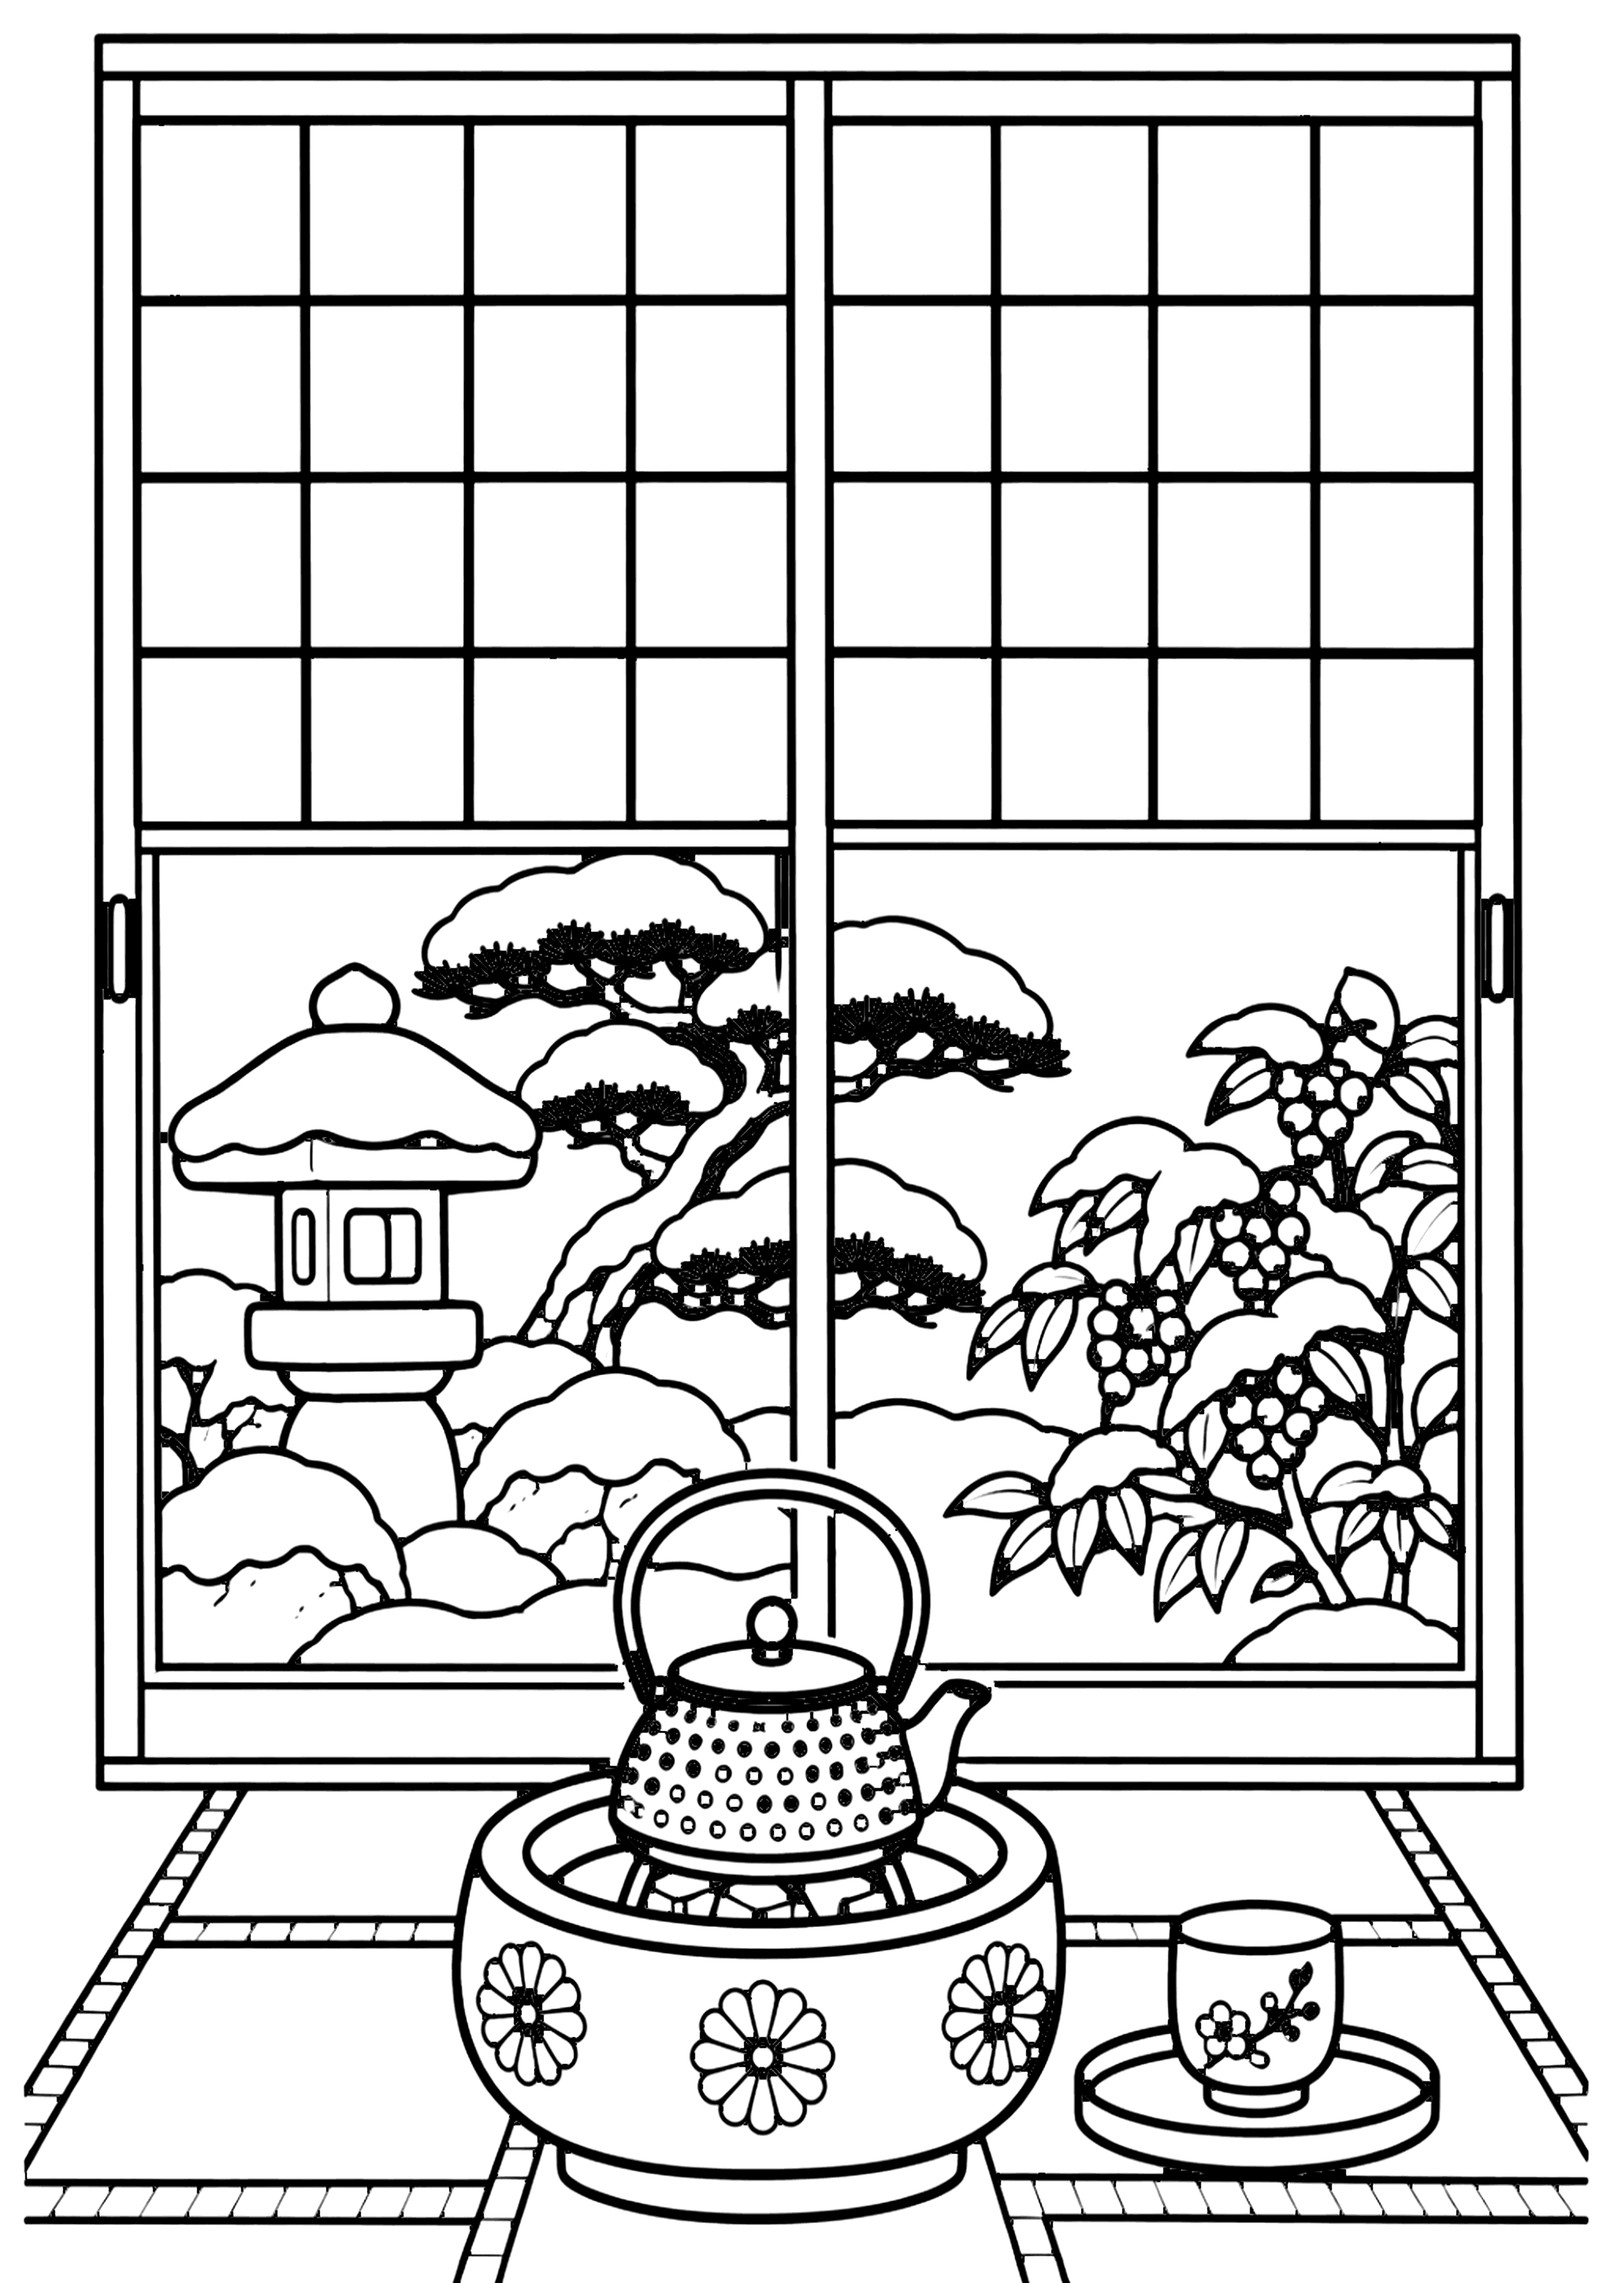
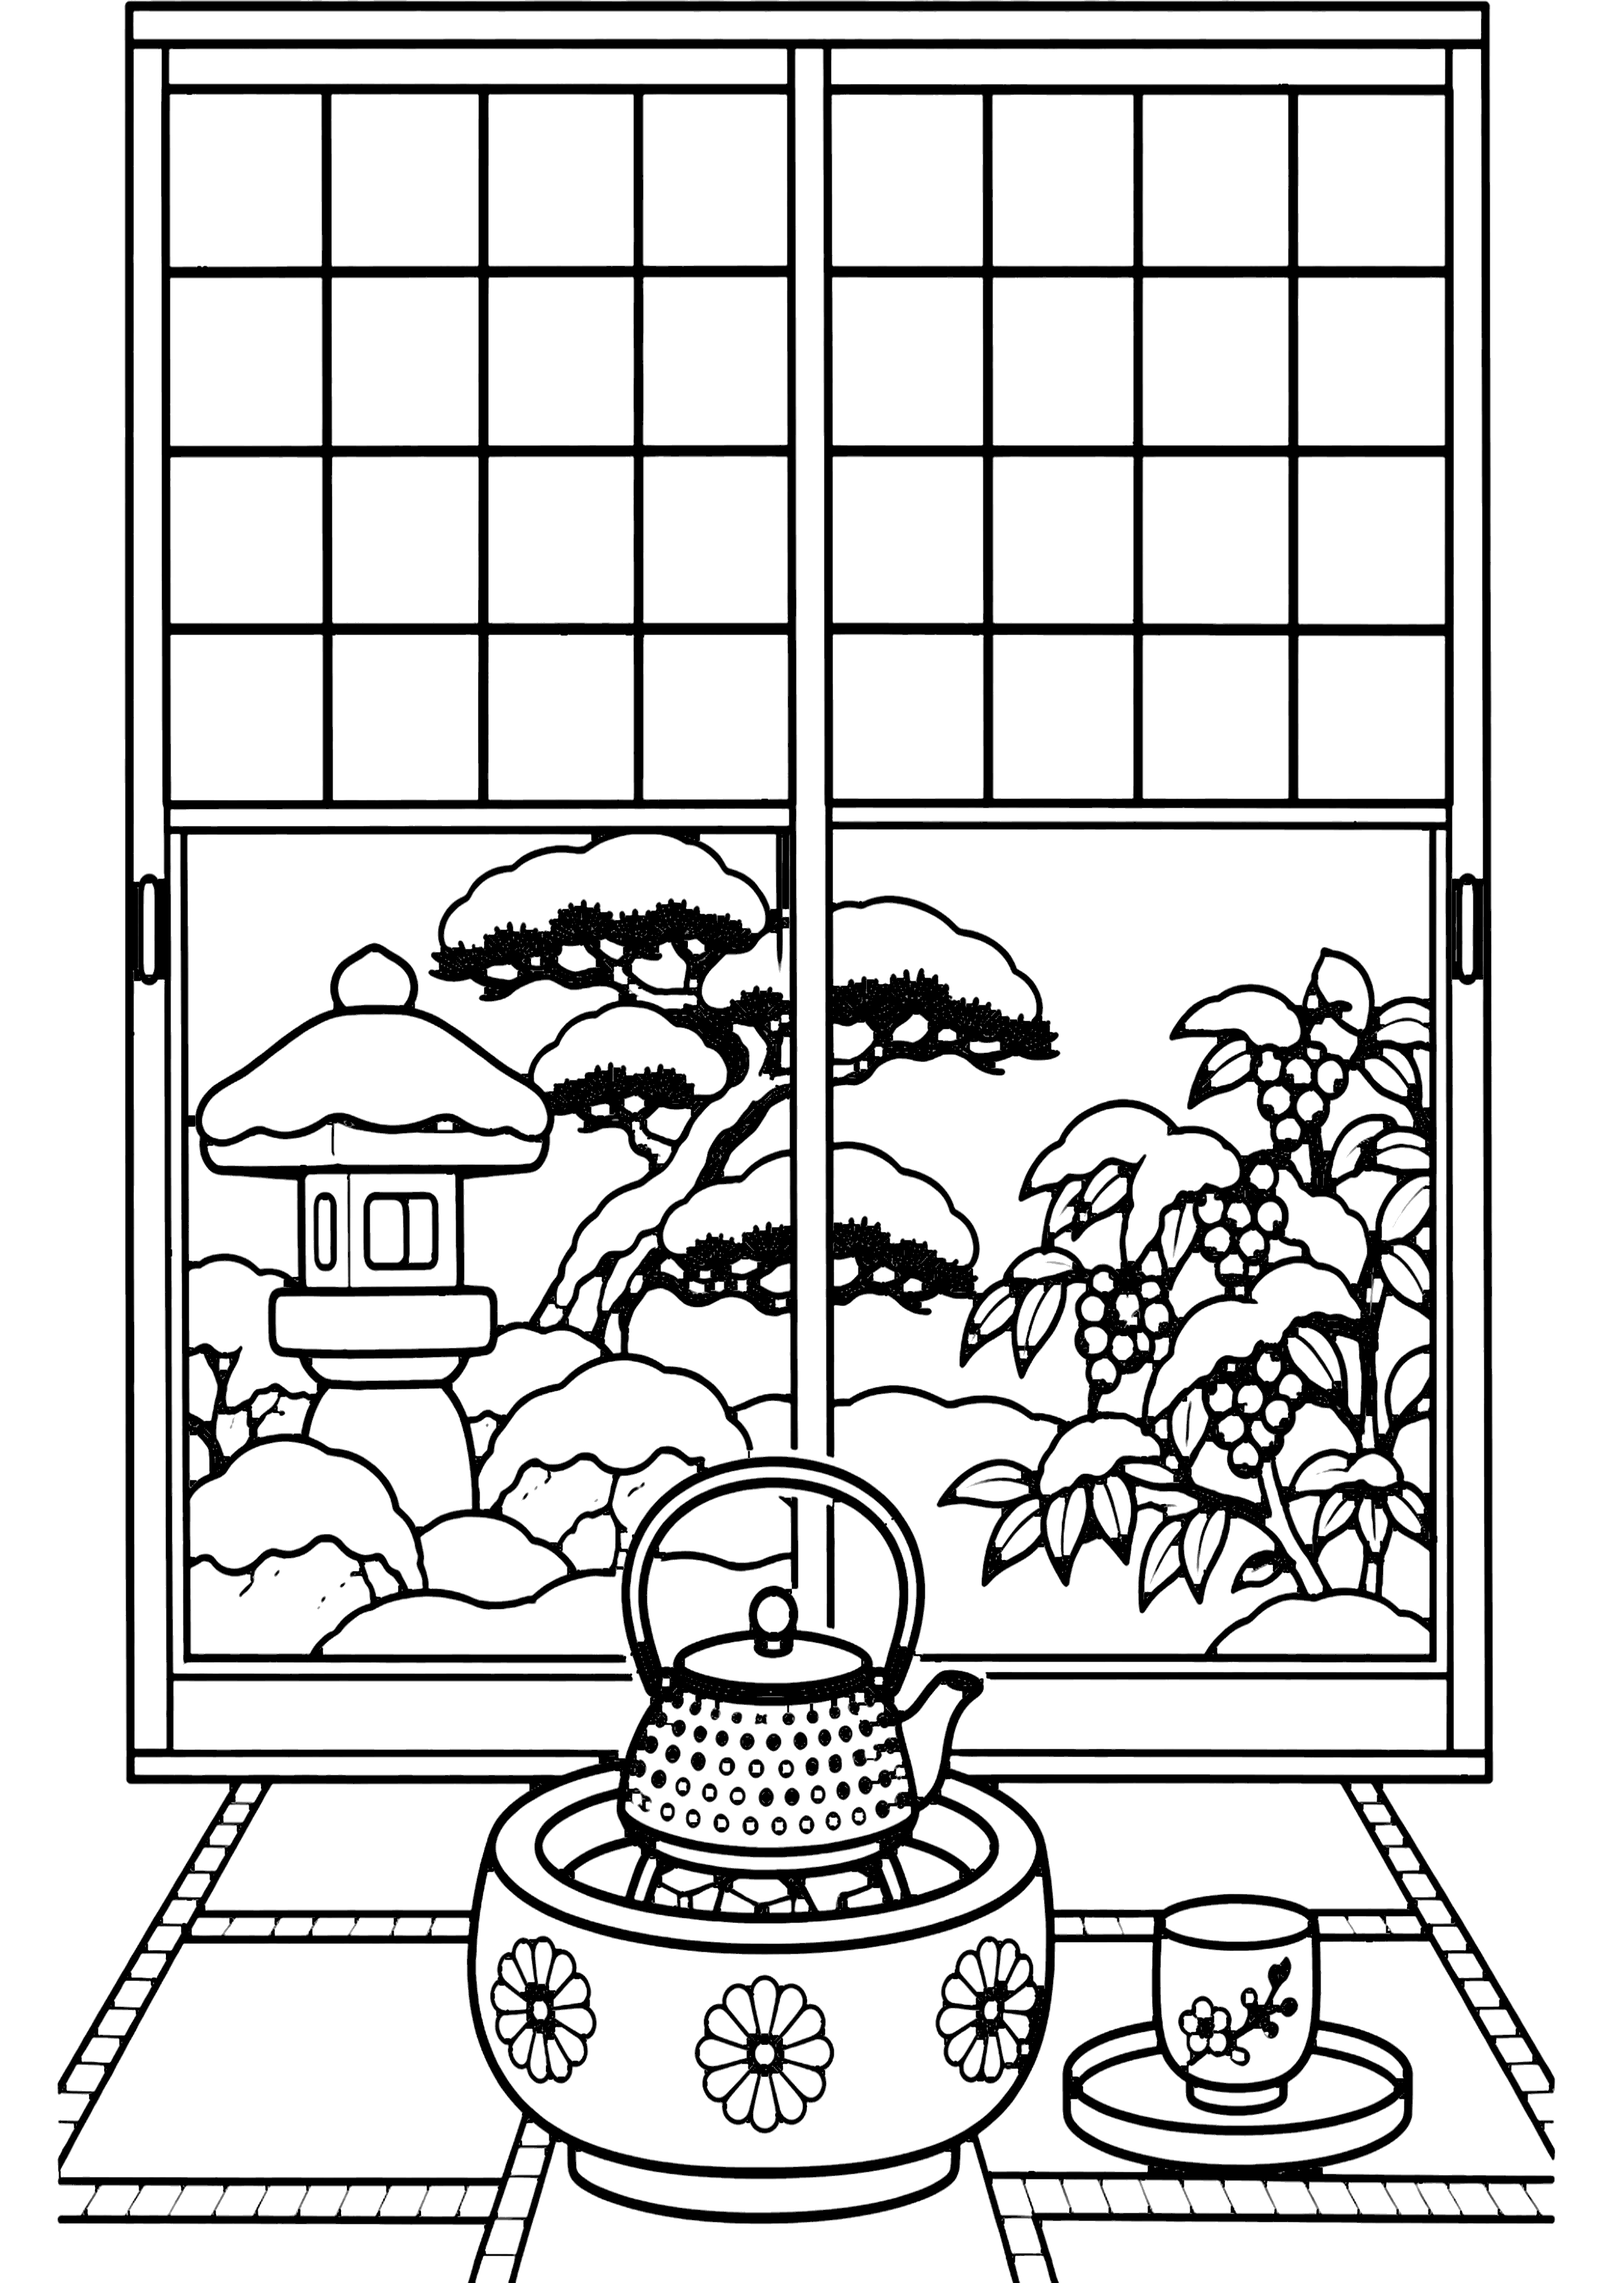
似た塗り絵は名前が近いものを優先／雪見障子の引き伸ばしを戻して左右に余白
Claude-Session: https://claude.ai/code/session_01EPRbSUdhE6u5mhTnwpBaSq

Changed region(s): [[0.0, 0.0, 0.9935, 1.0]]

diff --git a/rk.js b/rk.js
@@ -270,9 +270,22 @@ ${PT && (k === "塗り絵" || W) ? `${btn2 ? `<div class="acts one">${btn2}</div
   /* ---------- modal ---------- */
   let mdN = null, mdTab = "l", zoom = 100, mdPg = -1;
   function related(n) {
-    const k = kindOf(n), pool = LIST.filter(x => x.file !== n.file && kindOf(x) === k && x.title !== n.title);
-    const head = t => String(t).split(/[ 　(（]/)[0];
-    const sc = x => (head(x.title) === head(n.title) ? 8 : 0) + (x.genre && x.genre === n.genre ? 4 : 0) + (x.season === n.season ? 2 : 0) + (x.diff === n.diff ? 1 : 0) + Math.random();
+    const k = kindOf(n), pool = LIST.filter(x => x.file !== n.file && kindOf(x) === k);
+    // 名前が似ているものを最優先（同じ名前・名前の一部が同じ → ジャンル → 季節 → 難しさ）
+    const nm = t => String(t).replace(/[（(][^）)]*[）)]/g, "").replace(/その[0-9０-９一二三四五六七八九十]+|[0-9０-９]+$/g, "").replace(/[ 　・、。！？!?〜~ーのと]/g, "");
+    const bg = t => { const a = new Set(); for (let i = 0; i < t.length - 1; i++) a.add(t.slice(i, i + 2)); return a; };
+    const KJ = /[\u4e00-\u9fff]/, SK = "春夏秋冬";
+    const nn = nm(n.title), nb = bg(nn);
+    const nameSc = x => {
+      const t = nm(x.title); if (!t || !nn) return 0;
+      if (t === nn) return 40;
+      if (t.length >= 2 && nn.length >= 2 && (t.includes(nn) || nn.includes(t))) return 30;
+      let c = 0; bg(t).forEach(b => { if (nb.has(b)) c++; });
+      if (c) return 16 + 3 * c;
+      let k = 0; new Set(t).forEach(ch => { if (KJ.test(ch) && !SK.includes(ch) && nn.includes(ch)) k++; });
+      return Math.min(k, 2) * 3;
+    };
+    const sc = x => nameSc(x) + (x.genre && x.genre === n.genre ? 4 : 0) + (x.season === n.season ? 2 : 0) + (x.diff === n.diff ? 1 : 0) + Math.random();
     return pool.map(x => [sc(x), x]).sort((a, b) => b[0] - a[0]).slice(0, 6).map(a => a[1]);
   }
   let mdSrc = "list", mdCtx = null;

diff --git a/data.js b/data.js
@@ -1618,5 +1618,5 @@ window.NURIE_LIST = [
   { season: "冬", genre: "人物", title: "おばあちゃんとクッキー作り", diff: "中級", file: "cookie_bake_chu.png", sample: "cookie_bake_chu_sample.jpg", added: "2026-11", date: "2026-11-22", desc: "おばあちゃんと孫で、星やツリーの形のクッキーに飾りつけ。", req: true, v: "1795327256494" },
   { season: "冬", genre: "風景", title: "クリスマスイブの居間", diff: "上級", file: "xmas_ibu_ima_jo.png", sample: "xmas_ibu_ima_jo_sample.jpg", added: "2026-11", date: "2026-11-22", desc: "暖炉に靴下、大きなツリーとプレゼント。猫が眠るクリスマスイブの居間です。", req: true, v: "1795327256495" },
   { season: "冬", genre: "風物詩", title: "湯呑みを包む手", diff: "初級", file: "yunomi_te_sho.png", sample: "yunomi_te_sho_sample.jpg", added: "2026-11", date: "2026-11-22", desc: "温かい湯呑みを両手でそっと包んで。小皿にはみかんが二つ。", v: "1795332291971" },
-  { season: "冬", genre: "風物詩", title: "雪見障子", diff: "中級", file: "yukimi_shoji_chu.png", sample: "yukimi_shoji_chu_sample.jpg", added: "2026-11", date: "2026-11-22", desc: "雪見障子のガラス越しに見る雪の庭。手前には火鉢と鉄瓶、湯呑みが置かれています。", v: "1795332291972" },
+  { season: "冬", genre: "風物詩", title: "雪見障子", diff: "中級", file: "yukimi_shoji_chu.png", sample: "yukimi_shoji_chu_sample.jpg", added: "2026-11", date: "2026-11-22", desc: "雪見障子のガラス越しに見る雪の庭。手前には火鉢と鉄瓶、湯呑みが置かれています。", v: "1795343645819" },
 ];

diff --git a/terms.html b/terms.html
@@ -110,7 +110,7 @@
 </div></main>
 <div id="ft"></div>
 <script src="/data.js"></script>
-<script src="/rk.js?v=1795400000"></script>
+<script src="/rk.js?v=1795343645"></script>
 <script>
 document.getElementById("hd").innerHTML=RK.header("doc");
 document.getElementById("ft").innerHTML=RK.footer("doc");

diff --git a/privacy.html b/privacy.html
@@ -98,7 +98,7 @@
 </div></main>
 <div id="ft"></div>
 <script src="/data.js"></script>
-<script src="/rk.js?v=1795400000"></script>
+<script src="/rk.js?v=1795343645"></script>
 <script>
 document.getElementById("hd").innerHTML=RK.header("doc");
 document.getElementById("ft").innerHTML=RK.footer("doc");

diff --git a/top-design.html b/top-design.html
@@ -372,7 +372,7 @@ body{font-family:var(--maru);font-weight:500}
 </main>
 <div id="ft"></div>
 <script src="/data.js"></script>
-<script src="/rk.js?v=1795400000"></script>
+<script src="/rk.js?v=1795343645"></script>
 <script>
 (function(){
   const {LIST,kindOf,thumb,full,esc,seasonNow,metaOf}=RK;

diff --git a/gallery.html b/gallery.html
@@ -64,7 +64,7 @@
 <main class="wrap" id="main"></main>
 <div id="ft"></div>
 <script src="/data.js"></script>
-<script src="/rk.js?v=1795400000"></script>
+<script src="/rk.js?v=1795343645"></script>
 <script src="/hame.js?v=8"></script>
 <script>
 (function(){

diff --git a/index.html b/index.html
@@ -319,7 +319,7 @@
 </main>
 <div id="ft"></div>
 <script src="/data.js"></script>
-<script src="/rk.js?v=1795400000"></script>
+<script src="/rk.js?v=1795343645"></script>
 <script src="/frame.js?v=19"></script>
 <script src="/hame.js?v=8"></script>
 <script>

diff --git a/keirou-nurie.html b/keirou-nurie.html
@@ -75,7 +75,7 @@
 </main>
 <div id="ft"></div>
 <script src="/data.js"></script>
-<script src="/rk.js?v=1795400000"></script>
+<script src="/rk.js?v=1795343645"></script>
 <script>
 (function(){
   var F={"kind": "塗り絵", "title_has": "敬老"},MAX=24;

diff --git a/nurie-doubutsu.html b/nurie-doubutsu.html
@@ -75,7 +75,7 @@
 </main>
 <div id="ft"></div>
 <script src="/data.js"></script>
-<script src="/rk.js?v=1795400000"></script>
+<script src="/rk.js?v=1795343645"></script>
 <script>
 (function(){
   var F={"kind": "塗り絵", "genre": "動物"},MAX=24;

diff --git a/nurie-aki.html b/nurie-aki.html
@@ -75,7 +75,7 @@
 </main>
 <div id="ft"></div>
 <script src="/data.js"></script>
-<script src="/rk.js?v=1795400000"></script>
+<script src="/rk.js?v=1795343645"></script>
 <script>
 (function(){
   var F={"kind": "塗り絵", "season": "秋"},MAX=24;

diff --git a/nurie-fuyu.html b/nurie-fuyu.html
@@ -75,7 +75,7 @@
 </main>
 <div id="ft"></div>
 <script src="/data.js"></script>
-<script src="/rk.js?v=1795400000"></script>
+<script src="/rk.js?v=1795343645"></script>
 <script>
 (function(){
   var F={"kind": "塗り絵", "season": "冬"},MAX=24;

diff --git a/nurie-haru.html b/nurie-haru.html
@@ -75,7 +75,7 @@
 </main>
 <div id="ft"></div>
 <script src="/data.js"></script>
-<script src="/rk.js?v=1795400000"></script>
+<script src="/rk.js?v=1795343645"></script>
 <script>
 (function(){
   var F={"kind": "塗り絵", "season": "春"},MAX=24;
